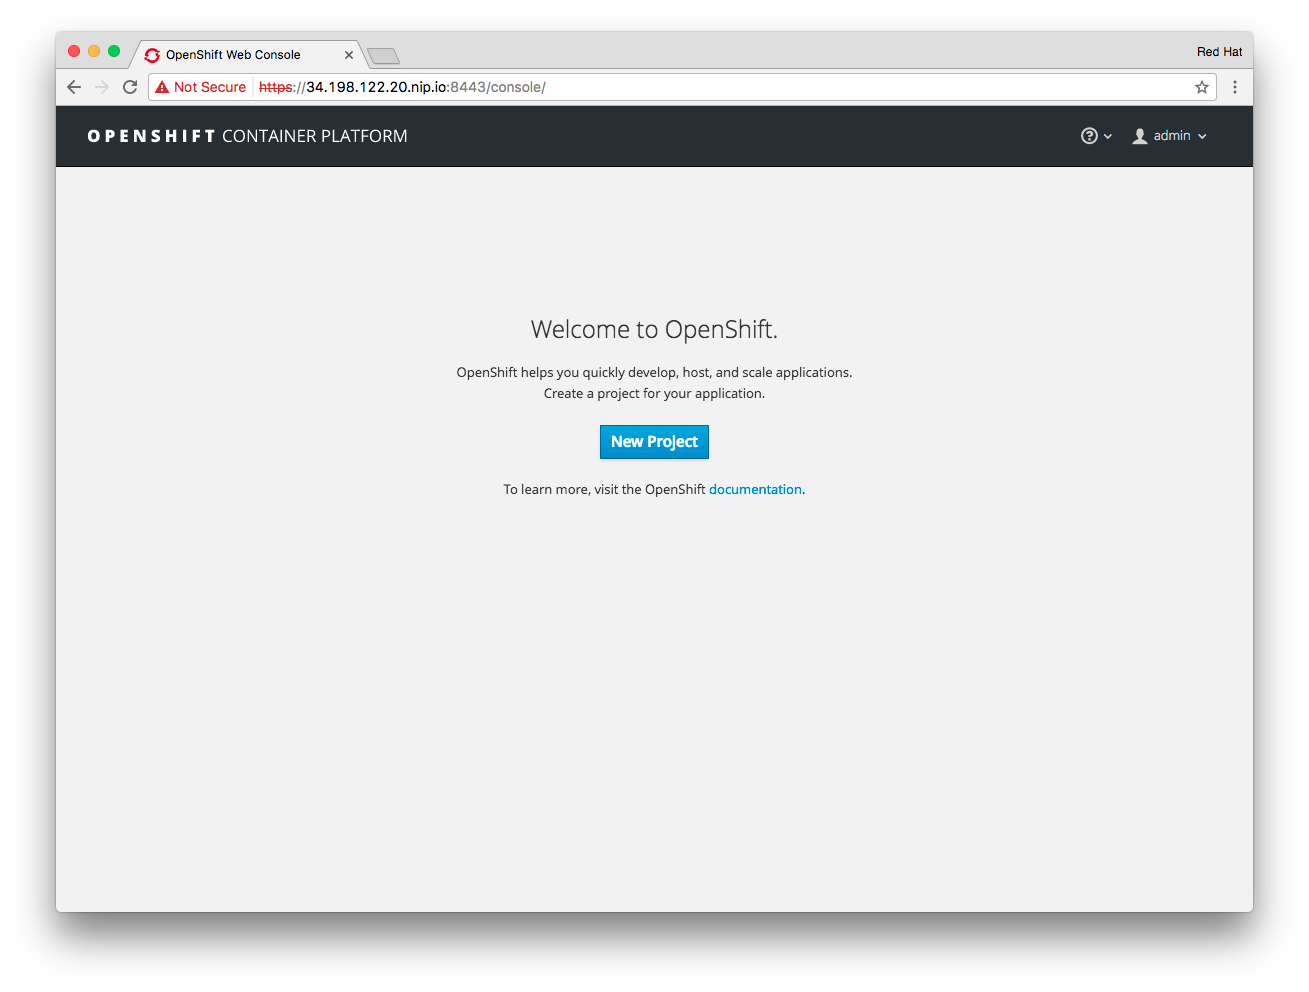
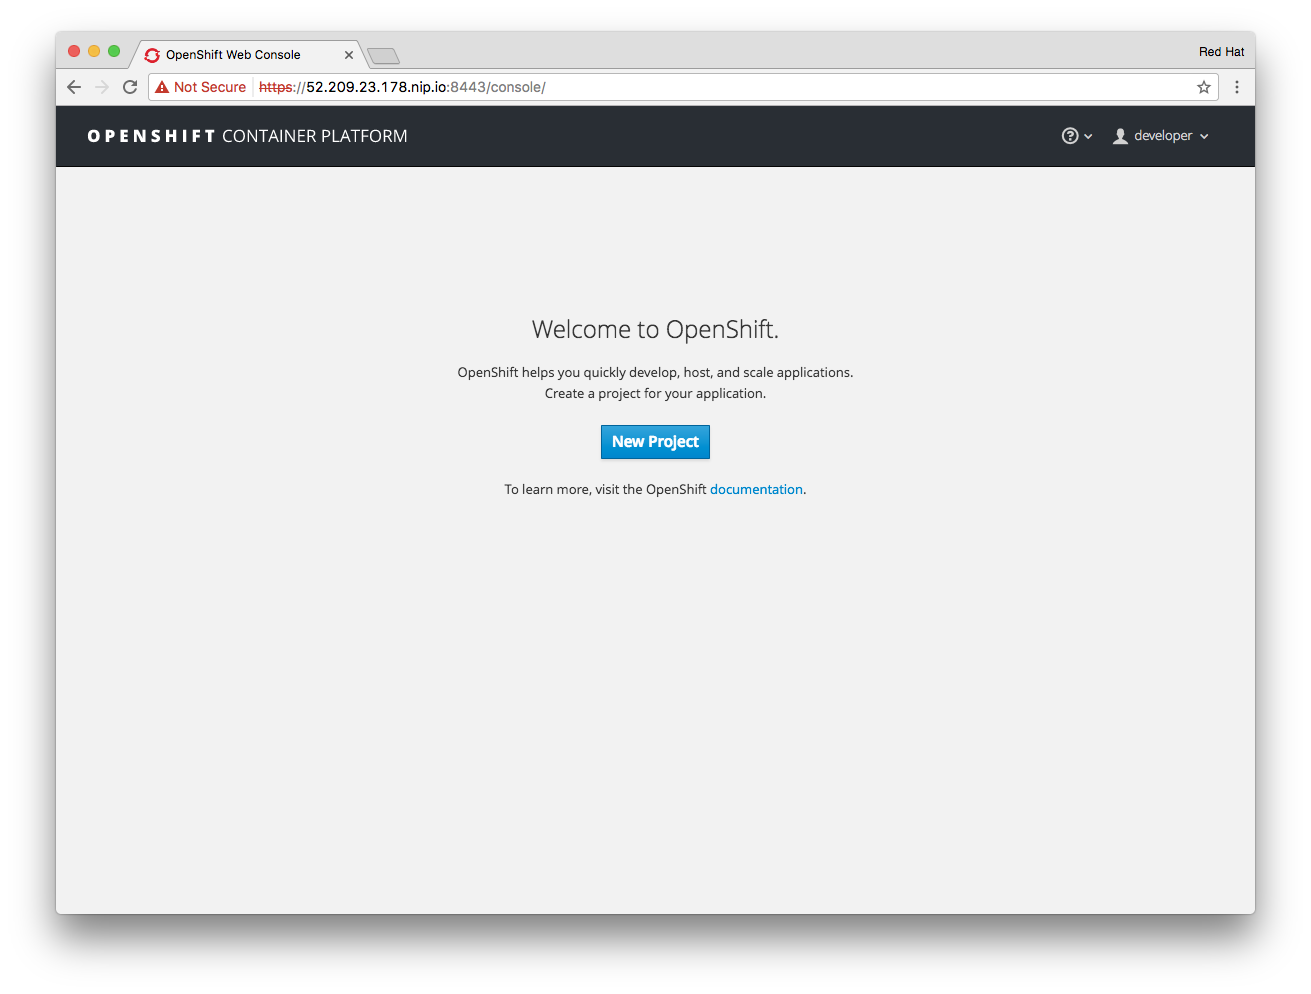
Deployed 4c56dd7 with MkDocs version: 0.16.3

diff --git a/module-1-ocp-in-5/index.html b/module-1-ocp-in-5/index.html
@@ -286,6 +286,13 @@
   
 </li>
         
+          <li class="md-nav__item">
+  <a href="#bonus-exploring-the-application-infrastructure" title="Bonus: Exploring the application infrastructure" class="md-nav__link">
+    Bonus: Exploring the application infrastructure
+  </a>
+  
+</li>
+        
       </ul>
     </nav>
   
@@ -366,6 +373,13 @@
   
 </li>
         
+          <li class="md-nav__item">
+  <a href="#bonus-exploring-the-application-infrastructure" title="Bonus: Exploring the application infrastructure" class="md-nav__link">
+    Bonus: Exploring the application infrastructure
+  </a>
+  
+</li>
+        
       </ul>
     </nav>
   
@@ -405,7 +419,7 @@ Kubernetes is a container orchestration engine for running docker-formatted cont
 <p>For each task we will provide instructions for the UI as well as the equivalent on the CLI.</p>
 </div>
 <h5 id="logging-in">Logging in<a class="headerlink" href="#logging-in" title="Permanent link">#</a></h5>
-<p>&#8680; Log on to the OpenShift User Interface with the URL and credentials provided in the <a href="../../">Overview section</a> section.</p>
+<p>&#8680; Log on to the OpenShift User Interface with the URL provided in the <a href="../../">Overview section</a> section as user <code>developer</code> with password <code>r3dh4t</code>:</p>
 <p><a href="../img/openshift_login.png"><img alt="OpenShift UI Login" src="../img/openshift_login.png" /></a><br />
 <em>click on the screenshot for better resolution</em></p>
 <p>The UI focusses mainly on the tasks a developer / user would carry out. Administrative tasks are CLI only.</p>
@@ -414,18 +428,39 @@ Kubernetes is a container orchestration engine for running docker-formatted cont
 <p>The <code>oc</code> client is the primary CLI tool to access and manipulate entities in an OpenShift deployment.<br />
 Basic syntax is always <code>$ oc &lt;command&gt;</code></p>
 </div>
-<p>&#8680; In parallel log on to the master node with it&rsquo;s public IP provided in the <a href="../../">Overview section</a> section. For this you use the pre-installed <code>oc</code> tool (OpenShift Client).</p>
+<p>&#8680; On the CLI you use the pre-installed <code>oc</code> tool (OpenShift Client). Log on to the master node with it&rsquo;s public IP provided in the <a href="../../">Overview section</a> section:</p>
 <div class="codehilite"><pre><span></span>ssh -i ~/qwiklabs.pem -l ec2-user &lt;your-public-IP&gt;
 </pre></div>
 
 
-<div class="codehilite"><pre><span></span>oc login -u system:admin
+<div class="codehilite"><pre><span></span>oc login -u developer
+</pre></div>
+
+
+<p>Log on with the password <code>r3dh4t</code>:</p>
+<div class="codehilite"><pre><span></span>Authentication required for https://master.lab:8443 (openshift)
+Username: admin
+Password:
+Login successful.
+
+You don&#39;t have any projects. You can try to create a new project, by running
+
+    oc new-project &lt;projectname&gt;
 </pre></div>
 
 
 <hr />
 <h5 id="exploring-the-environment">Exploring the environment<a class="headerlink" href="#exploring-the-environment" title="Permanent link">#</a></h5>
-<p>&#8680; First, display all available nodes in the system</p>
+<div class="admonition note">
+<p class="admonition-title">Note</p>
+<p>The operations in this step can only be done on the command line and require cluster admin privileges in OpenShift.</p>
+</div>
+<p>&#8680; Log on as the default built-in system user, no password required:</p>
+<div class="codehilite"><pre><span></span>oc login -u system:admin
+</pre></div>
+
+
+<p>&#8680; Display all available nodes in the system</p>
 <div class="codehilite"><pre><span></span>oc get nodes
 </pre></div>
 
@@ -517,14 +552,24 @@ View details with &#39;oc describe &lt;resource&gt;/&lt;name&gt;&#39; or list ev
 
 
 <p>If these 3 pods are in place your environment is working.</p>
+<p>&#8680; Now log out from cluster admin:</p>
+<div class="codehilite"><pre><span></span>oc logout
+</pre></div>
+
+
 <hr />
 <h5 id="creating-a-project">Creating a Project<a class="headerlink" href="#creating-a-project" title="Permanent link">#</a></h5>
 <p>Similar to OpenStack <em>Projects</em> exists in OpenShift. They group users, objects and quotas in the system. They are also called <em>namespaces</em>. Nothing can exist outside a project/namespace.</p>
-<p>&#8680; Select <em>Create Project</em> in the UI. Enter at least a system name, optionally a human-readable name (label) and a description.</p>
+<p>&#8680; Select <strong>New Project</strong> in the UI. Enter at least a system name, optionally a human-readable name (label) and a description.</p>
 <p><a href="../img/openshift_no_project.png"><img alt="OpenShift empty project list" src="../img/openshift_no_project.png" /></a></p>
 <p><a href="../img/openshift_new_project.png"><img alt="OpenShift new project list" src="../img/openshift_new_project.png" /></a></p>
-<p>&#8680; On the CLI create a project with the <code>oc</code> client.</p>
-<div class="codehilite"><pre><span></span>oc new-project my-first-application \
+<p>&#8680; To do this on the CLI log back in as the <code>developer</code> user with the password <code>r3dh4t</code>:</p>
+<div class="codehilite"><pre><span></span>oc login -u developer
+</pre></div>
+
+
+<p>&#8680; Create a new project with the <code>oc</code> client:</p>
+<div class="codehilite"><pre><span></span>oc new-project my-first-app \
   --display-name=&quot;My First Application&quot; \
   --description=&quot;My first application on OpenShift Container Platform&quot;
 </pre></div>
@@ -534,11 +579,108 @@ View details with &#39;oc describe &lt;resource&gt;/&lt;name&gt;&#39; or list ev
 <h5 id="creating-an-application">Creating an Application<a class="headerlink" href="#creating-an-application" title="Permanent link">#</a></h5>
 <p>In the UI you should be looking at the following overview page:</p>
 <p><a href="../img/openshift_catalog.png"><img alt="OpenShift catalog" src="../img/openshift_catalog.png" /></a></p>
-<p>If not, click on the OpenShift Product Logo in the upper left hand corner, select your project again and select <em>Add to Project</em>.</p>
-<p>&#8680; From the catalog select the category <em>Ruby</em> from the group of available runtime environments.</p>
+<p>If not, click on the OpenShift Product Logo in the upper left hand corner, select your project again and select <strong>Add to Project</strong>.</p>
+<p>&#8680; From the catalog select the category <strong>Ruby</strong> from the group of available runtime environments.</p>
 <p><a href="../img/openshift_ruby.png"><img alt="OpenShift Ruby Example" src="../img/openshift_ruby.png" /></a></p>
-<p>OpenShift ships a number of useful example of simple and more complex application stacks in the form of templates. These are a great way to see how OpenShift does application development and deployment.</p>
+<p>OpenShift ships a number of useful example of simple and more complex application stacks in the form of templates. These are a great way to see how OpenShift supports application development and deployment.</p>
 <p>&#8680; Select the example app template labeled <strong>Rails + PostgreSQL (Ephemeral)</strong></p>
+<p><a href="../img/openshift_rails_1.png"><img alt="OpenShift Ruby Example" src="../img/openshift_rails_1.png" /></a></p>
+<p>The template specifies various OpenShift resources, some of which are customizable via parameters. This page allows to override some.</p>
+<p><a href="../img/openshift_rails_2.png"><img alt="OpenShift Ruby Example" src="../img/openshift_rails_2.png" /></a></p>
+<p>We will accept the defaults. Note the GitHub repository URL - this is where the code for this app will come from.</p>
+<p>&#8680; Click <strong>Create</strong> to start the app deployment:</p>
+<p><a href="../img/openshift_rails_3.png"><img alt="OpenShift Ruby Example" src="../img/openshift_rails_3.png" /></a></p>
+<p>&#8680; Click <strong>Continue to Overview</strong> to follow the deployment process</p>
+<p><a href="../img/openshift_rails_4.png"><img alt="OpenShift Ruby Example" src="../img/openshift_rails_4.png" /></a></p>
+<p>After a few minutes the deployment is done.</p>
+<p><a href="../img/openshift_rails_5.png"><img alt="OpenShift Ruby Example" src="../img/openshift_rails_5.png" /></a></p>
+<p>&#8680; Click on the link provided starting with <strong>http://rails-postgresql-example-my-first-app.cloudapps&hellip;</strong> in the upper right hand corner to get to the application instances.</p>
+<p>On the CLI the process would have been kicked off with this command chain:</p>
+<div class="codehilite"><pre><span></span>oc export template/rails-postgresql-example -n openshift | oc process -f - | oc create -f -
+</pre></div>
+
+
+<p>Don&rsquo;t worry about the exact mechanics of this method - it will be explained in a later module.</p>
+<p>At this point you deployed an application stack consisting of a database pod and a pod running the ruby on rails app.<br />
+That&rsquo;s it. The application has been built from source and deployed from scratch.</p>
+<p>There is only one problem. The database stores it&rsquo;s data internally in the pod&rsquo;s ephemeral local filesystem.</p>
+<div class="admonition note">
+<p class="admonition-title">Note</p>
+<p>At this point 5 minutes are probably over. For the curious reader there is an extra section below that explains what has happened in the background.</p>
+<p>It&rsquo;s not crucial for this lab - so feel free to skip it.</p>
+</div>
+<hr />
+<h5 id="bonus-exploring-the-application-infrastructure">Bonus: Exploring the application infrastructure<a class="headerlink" href="#bonus-exploring-the-application-infrastructure" title="Permanent link">#</a></h5>
+<p>What has happened behind the scenes in the previous step in a nutshell:</p>
+<ol>
+<li>
+<p>A Git repository with the applications source code was provided to OpenShift</p>
+</li>
+<li>
+<p>OpenShift was instructed to build a Ruby application from the source</p>
+</li>
+<li>
+<p>The Ruby application was packaged into a container image alongside the Ruby on Rails runtime</p>
+</li>
+<li>
+<p>A pointer to an existing container image containing a PostgresSQL database installation was provided</p>
+</li>
+<li>
+<p>An instance of postgres container image was started, with configuration supplied via environment variables</p>
+</li>
+<li>
+<p>An instance of the ruby app container image was started with connection data to the database container supplied via environment variables</p>
+</li>
+<li>
+<p>An internal forwarding mechanism was put in place based on a custom subdomain for the app below *.cloudapps.&lt;your-domain-name>.com</p>
+</li>
+</ol>
+<p>Let&rsquo;s look at the objects and resources in OpenShif that where created during this process.</p>
+<p>&#8680; In the OpenShift UI, click the link labeled <code>postgresql</code> in the right hand box</p>
+<p><a href="../img/openshift_rails_6.png"><img alt="OpenShift Ruby Example" src="../img/openshift_rails_6.png" /></a></p>
+<p>What you will see is known as <code>DeploymentConfig</code> in OpenShift. It is an instruction how to run instances of a certain container image, i.e. how many instances, how much resources per container, whether to apply auto-scaling and what to do when the deployment config get&rsquo;s changed.</p>
+<p>Click on the <strong>Configuration</strong> tab in the <code>DeploymentConfig</code> to look at this.</p>
+<p><a href="../img/openshift_rails_dc.png"><img alt="OpenShift Ruby Example DeploymentConfig" src="../img/openshift_rails_dc.png" /></a></p>
+<p>When the config changes (e.g. increase number of container from 1 to 2) a new deployment will be triggered. The container(s) will be recreated from scratch. This follows the principle of <em>immutable infrastructre</em>.</p>
+<p>&#8680; Click on the <strong>History</strong> tab to see a list of all deployments of this config so far (should be only 1).</p>
+<p><a href="../img/openshift_rails_dc_history.png"><img alt="OpenShift Ruby Example DeploymentConfig" src="../img/openshift_rails_dc_history.png" /></a></p>
+<p>Deployments are versioned with simple integers.</p>
+<p>&#8680; Click on version <strong>#1</strong> which should be the latest version.</p>
+<p><a href="../img/openshift_rails_deployment.png"><img alt="OpenShift Ruby Example Deployment" src="../img/openshift_rails_deployment.png" /></a></p>
+<p>This deployment contains exactly one container instance of the postgres image. A container is handled in OpenShift/Kubernetes within the concept of a <strong>Pod</strong>.<br />
+A pod is a logical entity to abstract the fact that there could be multiple container instances scheduled as a single entity (with a single IP, single set of environment variables, storage etc.). In 90% of the case 1 pod = 1 container.</p>
+<p>&#8680; Scroll down to see the pods associated with this deployment. Click it.</p>
+<p><a href="../img/openshift_rails_dc_pod.png"><img alt="OpenShift Ruby Example Deployment" src="../img/openshift_rails_dc_pod.png" /></a></p>
+<p>This will show you the environment in which the pod runs. On which node, under what IP address etc. Explore the various tabs shown here. They will tell you the environment variables available to this pod, it&rsquo;s output so far and various events OpenShift recorded during it&rsquo;s lifetime.</p>
+<p>&#8680; On the CLI you can look at the DeploymentConfig like this:</p>
+<div class="codehilite"><pre><span></span>oc get deploymentconfig
+</pre></div>
+
+
+<p>You&rsquo;ll see there are actually two DeploymentConfig objects, the other one is for the ruby app container.</p>
+<div class="codehilite"><pre><span></span>NAME                       REVISION   DESIRED   CURRENT   TRIGGERED BY
+postgresql                 1          1         1         config,image(postgresql:9.5)
+rails-postgresql-example   1          1         1         config,image(rails-postgresql-example:latest)
+</pre></div>
+
+
+<p>&#8680; You can get more information on a specific object like this:</p>
+<div class="codehilite"><pre><span></span>oc describe dc/postgresql
+</pre></div>
+
+
+<p>The output will more or less show the same as the UI but in plain text.</p>
+<p>&#8680; In the UI go back to the <code>Overview</code>. Click on the link labeled <code>rails-postgresql-example</code> above the <code>DeploymentConfig</code> of the same name.</p>
+<p><a href="../img/openshift_overview_service.png"><img alt="OpenShift Ruby Example Deployment" src="../img/openshift_overview_service.png" /></a></p>
+<p>What you see is a <code>Service</code>. Think of it as a cluster virtual-IP for a set of containers. The <code>Service</code> IP will be constant while pod IPs can change with pods getting rescheduled, new instances spawned etc. The <code>Service</code> will also forward network traffic on a certain port to a certain port on the pods.<br />
+It will do this in a round-robin fashion.</p>
+<p><a href="../img/openshift_rails_service.png"><img alt="OpenShift Ruby Example Deployment" src="../img/openshift_rails_service.png" /></a></p>
+<p>However as you can tell even the <code>Service</code> IP is still internal to OpenShift. This is where <code>Routes</code> come in.</p>
+<p>&#8680; From the sidebar select <strong>Applications</strong> &gt; <strong>Routes</strong></p>
+<p><a href="../img/openshift_overview_routes.png"><img alt="OpenShift Ruby Example Deployment" src="../img/openshift_overview_routes.png" /></a></p>
+<p>&#8680; Click the entry labelled <code>rails-postgresql-example</code></p>
+<p><a href="../img/openshift_rails_route.png"><img alt="OpenShift Ruby Example Deployment" src="../img/openshift_rails_route.png" /></a></p>
+<p>A <code>Route</code> in OpenShift is a way of exposing a <code>Service</code> to the public. While a <code>Service</code> is what pods in OpenShift internally would use to talk to other pods, a <code>Route</code> is used by external clients like humans.</p>
                 
                   
                 
